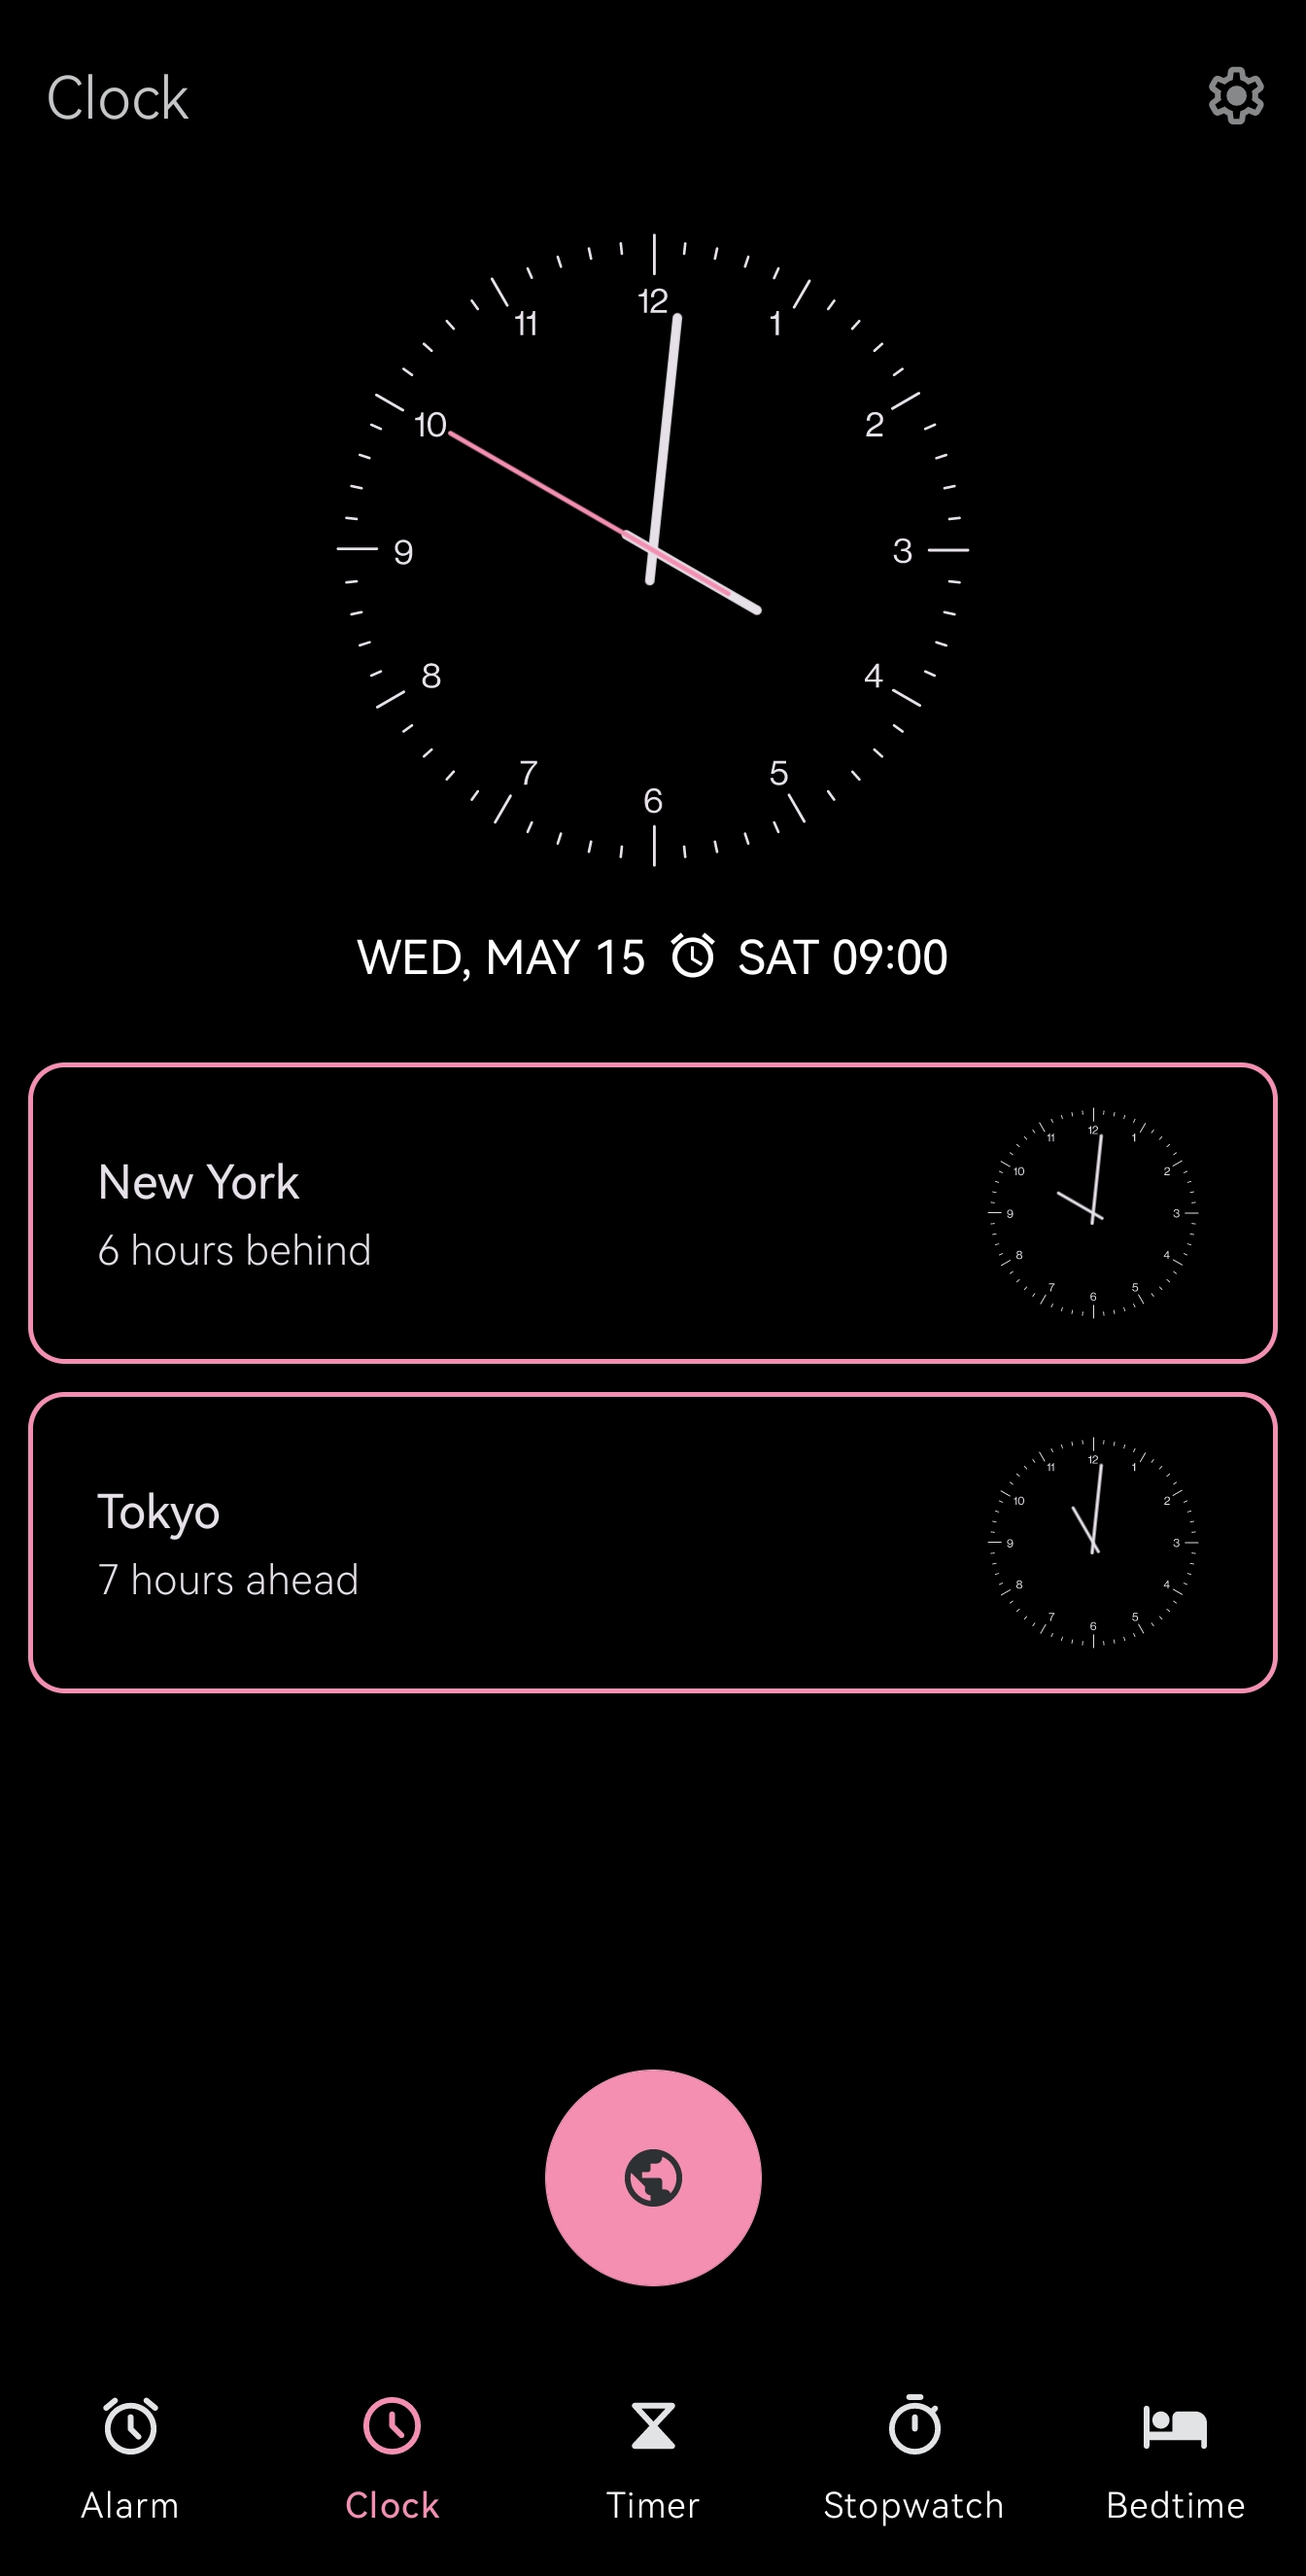
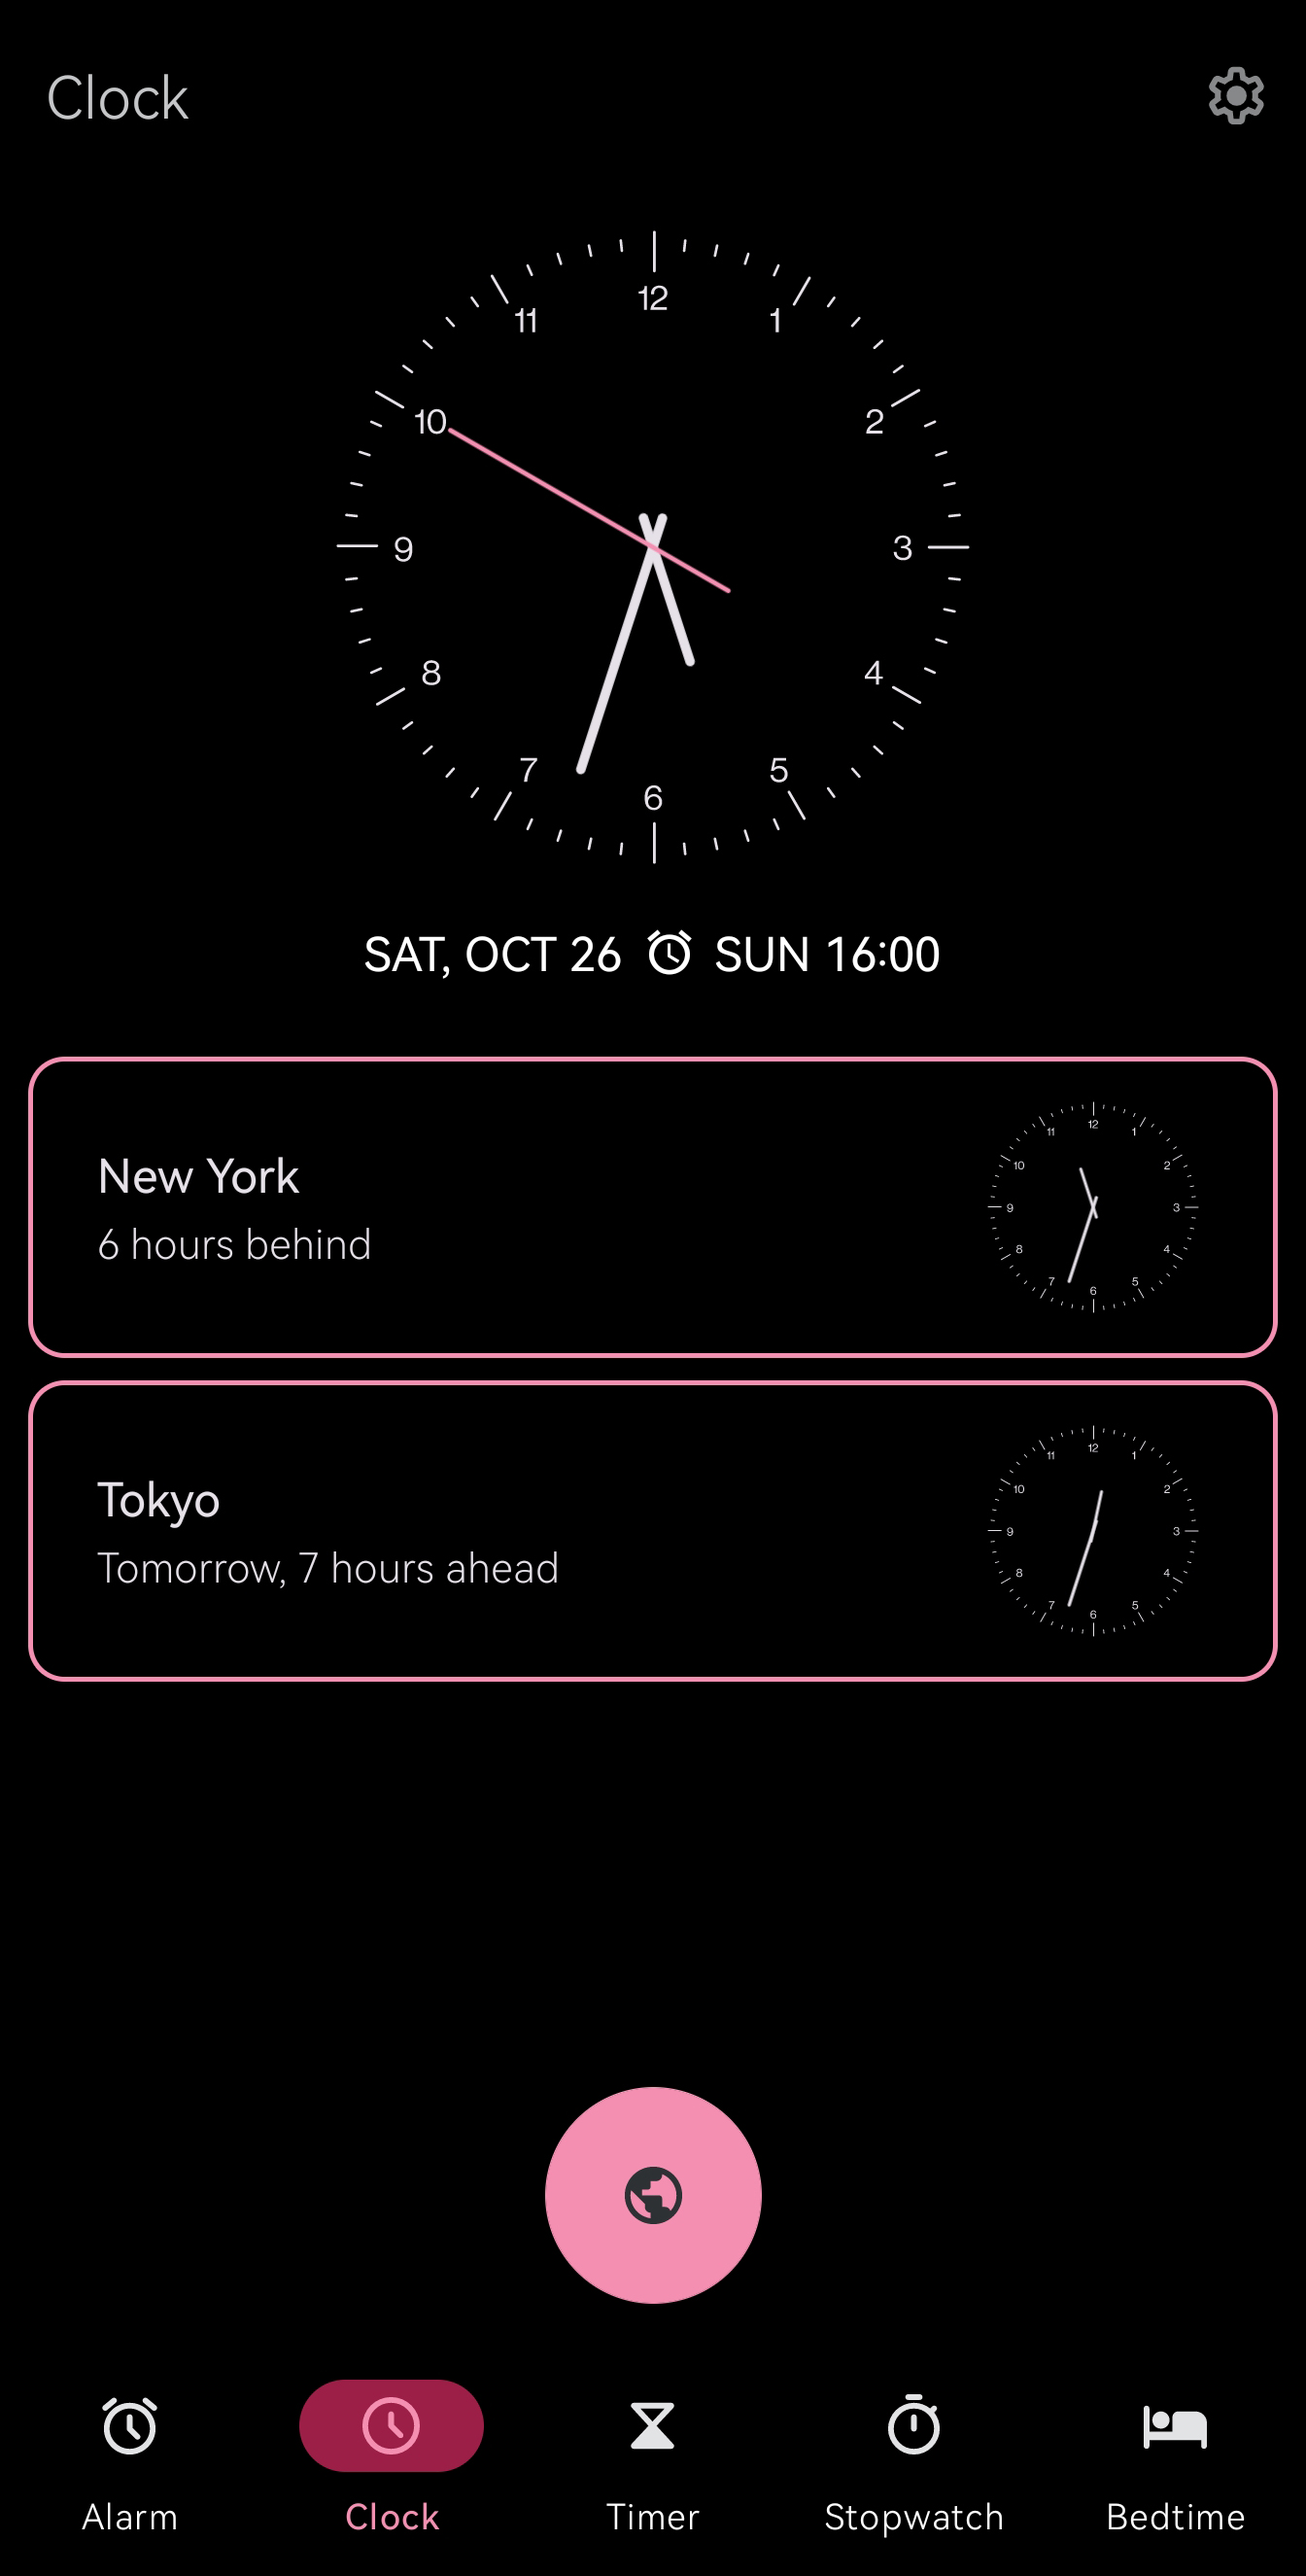
Adjust night colors for accent colors
- This is now closer to the Material style;
- Fix the color of the seconds hand that didn't follow the accent colors in the Clock tab;
- Screenshots updated in Readme;

diff --git a/app/src/main/java/com/best/deskclock/AnalogClock.java b/app/src/main/java/com/best/deskclock/AnalogClock.java
@@ -8,6 +8,14 @@ package com.best.deskclock;
 
 import static android.text.format.DateUtils.SECOND_IN_MILLIS;
 
+import static com.best.deskclock.settings.InterfaceCustomizationActivity.BLUE_GRAY_ACCENT_COLOR;
+import static com.best.deskclock.settings.InterfaceCustomizationActivity.BROWN_ACCENT_COLOR;
+import static com.best.deskclock.settings.InterfaceCustomizationActivity.GREEN_ACCENT_COLOR;
+import static com.best.deskclock.settings.InterfaceCustomizationActivity.INDIGO_ACCENT_COLOR;
+import static com.best.deskclock.settings.InterfaceCustomizationActivity.ORANGE_ACCENT_COLOR;
+import static com.best.deskclock.settings.InterfaceCustomizationActivity.PINK_ACCENT_COLOR;
+import static com.best.deskclock.settings.InterfaceCustomizationActivity.RED_ACCENT_COLOR;
+
 import android.content.BroadcastReceiver;
 import android.content.Context;
 import android.content.Intent;
@@ -127,7 +135,17 @@ public class AnalogClock extends FrameLayout {
         } else if (context instanceof ScreensaverActivity || context instanceof Screensaver) {
             Utils.dimScreensaverView(context, mSecondHand, screensaverSecondsHandColor);
         } else {
-            mSecondHand.setColorFilter(context.getColor(R.color.md_theme_primary));
+            final String accentColor = DataModel.getDataModel().getAccentColor();
+            switch (accentColor) {
+                case BLUE_GRAY_ACCENT_COLOR -> mSecondHand.setColorFilter(context.getColor(R.color.blueGrayColorPrimary));
+                case BROWN_ACCENT_COLOR -> mSecondHand.setColorFilter(context.getColor(R.color.brownColorPrimary));
+                case GREEN_ACCENT_COLOR -> mSecondHand.setColorFilter(context.getColor(R.color.greenColorPrimary));
+                case INDIGO_ACCENT_COLOR -> mSecondHand.setColorFilter(context.getColor(R.color.indigoColorPrimary));
+                case ORANGE_ACCENT_COLOR -> mSecondHand.setColorFilter(context.getColor(R.color.orangeColorPrimary));
+                case PINK_ACCENT_COLOR -> mSecondHand.setColorFilter(context.getColor(R.color.pinkColorPrimary));
+                case RED_ACCENT_COLOR -> mSecondHand.setColorFilter(context.getColor(R.color.redColorPrimary));
+                default -> mSecondHand.setColorFilter(context.getColor(R.color.md_theme_primary));
+            }
         }
         addView(mSecondHand);
     }
